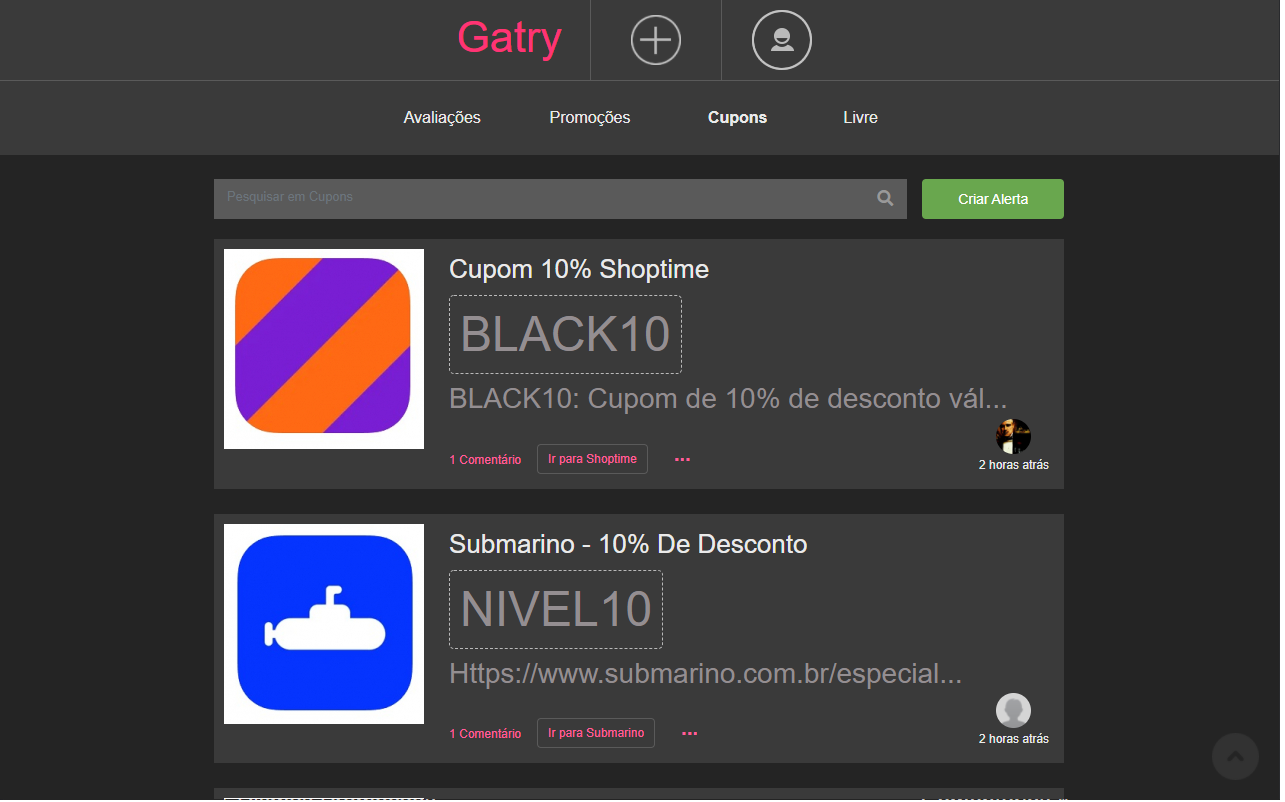
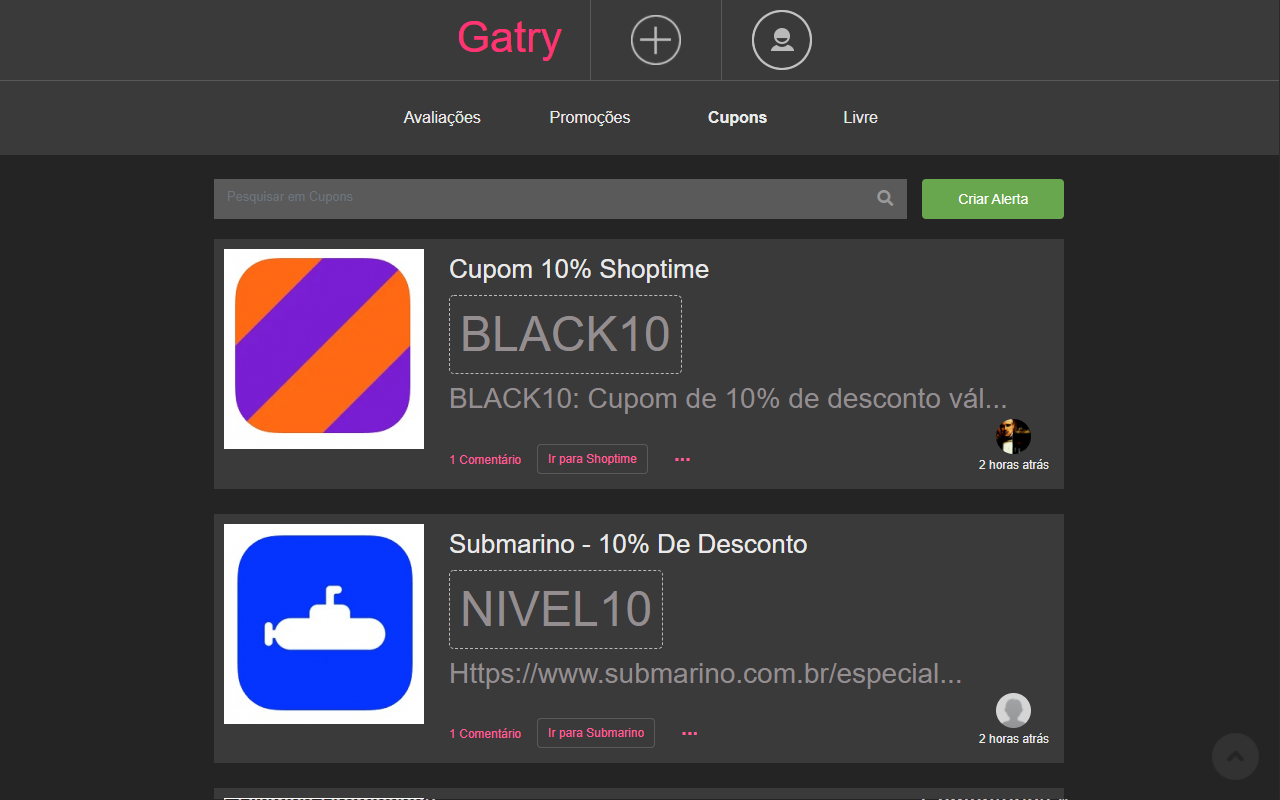
Pequenos ajustes

diff --git a/css/night-mode.css b/css/night-mode.css
@@ -45,6 +45,7 @@ div.header {
 
 .search-bar {
     border: 1px solid rgb(90, 90, 90);
+    background: #5a5a5a;
 }
 
 .promocoes h2.blackfriday-aovivo {
